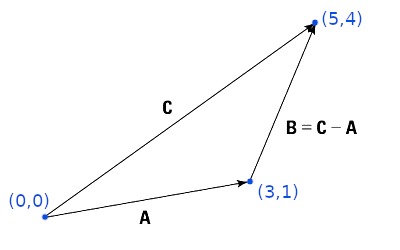
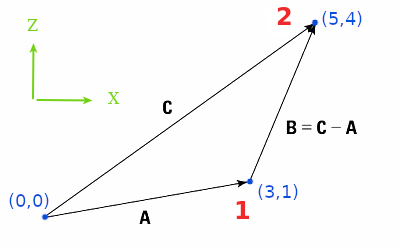
Update GUIA.md

diff --git a/GUIA.md b/GUIA.md
@@ -312,7 +312,7 @@ El area de juego mide aproximadamnte 20 x 20, es decir que los limites de la can
 
 **Nota Importante:** los equipos deben poder usarse de ambos lados de la cancha, no escribir funciones que usen coordenas absolutas y por lo tanto solo funcionen de un lado de la cancha.
   
-![coords](ReadmeResources/coordinates.png?raw=true "Title")
+![coords](ReadmeResources/coordinates.png "Title")
  
 ## Fuerza de tiro
  
@@ -378,18 +378,32 @@ recibe: Vector3 start, Vector3 dir, Color, Float duration
 
 ## Vectores
 
-Para definir un vector entre dos puntos: (x<sub>0</sub>, y<sub>0</sub>, z<sub>0</sub>) y (x<sub>1</sub>, y<sub>1</sub>, z<sub>1</sub>)
+La presente sección muestra como realizar el cálculo de un vector que describe la dirección entre dos puntos.
 
-Lo hacemos restando componente a componente: Vector = (x<sub>1</sub>-x<sub>0</sub> , y<sub>1</sub>-y<sub>0</sub> , z<sub>1</sub>-z<sub>0</sub>)
+Para esto, supongamos que tenemos los 3 puntos que se muestran en la imagen siguiente. 
 
-Vector A = (3-0, 0-0, 1-0) = (3, 0, 1) y Vector C = (5-0, 0-0, 4-0) = (5, 0, 4)
+Estos son:
+- El origen: (x<sub>0</sub>, y<sub>0</sub>, z<sub>0</sub>) = (0, 0, 0)
+- Punto 1: (x<sub>1</sub>, y<sub>1</sub>, z<sub>1</sub>) = (3, 0, 1)
+- Punto 2: (x<sub>2</sub>, y<sub>2</sub>, z<sub>2</sub>) = (5, 0, 4)
 
-![coords](ReadmeResources/vector.png?raw=true "Title")
+![vec](ReadmeResources/vector.png "Title")
 
+Para definir un vector entre dos puntos: (x<sub>1</sub>, y<sub>1</sub>, z<sub>1</sub>) y (x<sub>2</sub>, y<sub>2</sub>, z<sub>2</sub>)
 
-Vector B = (5-3, 0-0, 4-1) = (2, 0, 3) = Vector C - Vector A = (5, 0, 4) - (3, 0, 1)
+Lo hacemos restando componente a componente: Vector = (x<sub>2</sub>-x<sub>1</sub> , y<sub>2</sub>-y<sub>1</sub> , z<sub>2</sub>-z<sub>1</sub>)
 
-Para hacer el cálculo de la imagen en C#:
+En este caso nos interesa conocer la dirección del punto 2 respecto al punto 1 (vector **B**). Esto lo podemos hacer de la siguiente manera:
+
+Vector **B** = (x<sub>2</sub>-x<sub>1</sub> , y<sub>2</sub>-y<sub>1</sub> , z<sub>2</sub>-z<sub>1</sub>) = (5-3, 0-0, 4-1) = (2, 0, 3) 
+
+Las coordenadas del punto 1 respecto al origen: (3, 0, 1), están determinadas por el vector **A** que parte del origen. Lo mismo ocurre con el punto 2, en donde su ubicación respecto al origen esta definida por el vector **C**. 
+
+Por lo tanto, el calculo del vector B se puede calcular de la siguiente forma:
+
+Vector **B** = vector **C** - vector **A** = (5, 0, 4) - (3, 0, 1) = (5-3, 0-0, 4-1) = (2, 0, 3)
+
+Para hacer el cálculo en C#:
 ```csharp
 var vectorA = new Vector3(3.0f, 0.0f, 1.0f);
 var vectorC = new Vector3(5.0f, 0.0f, 4.0f);
